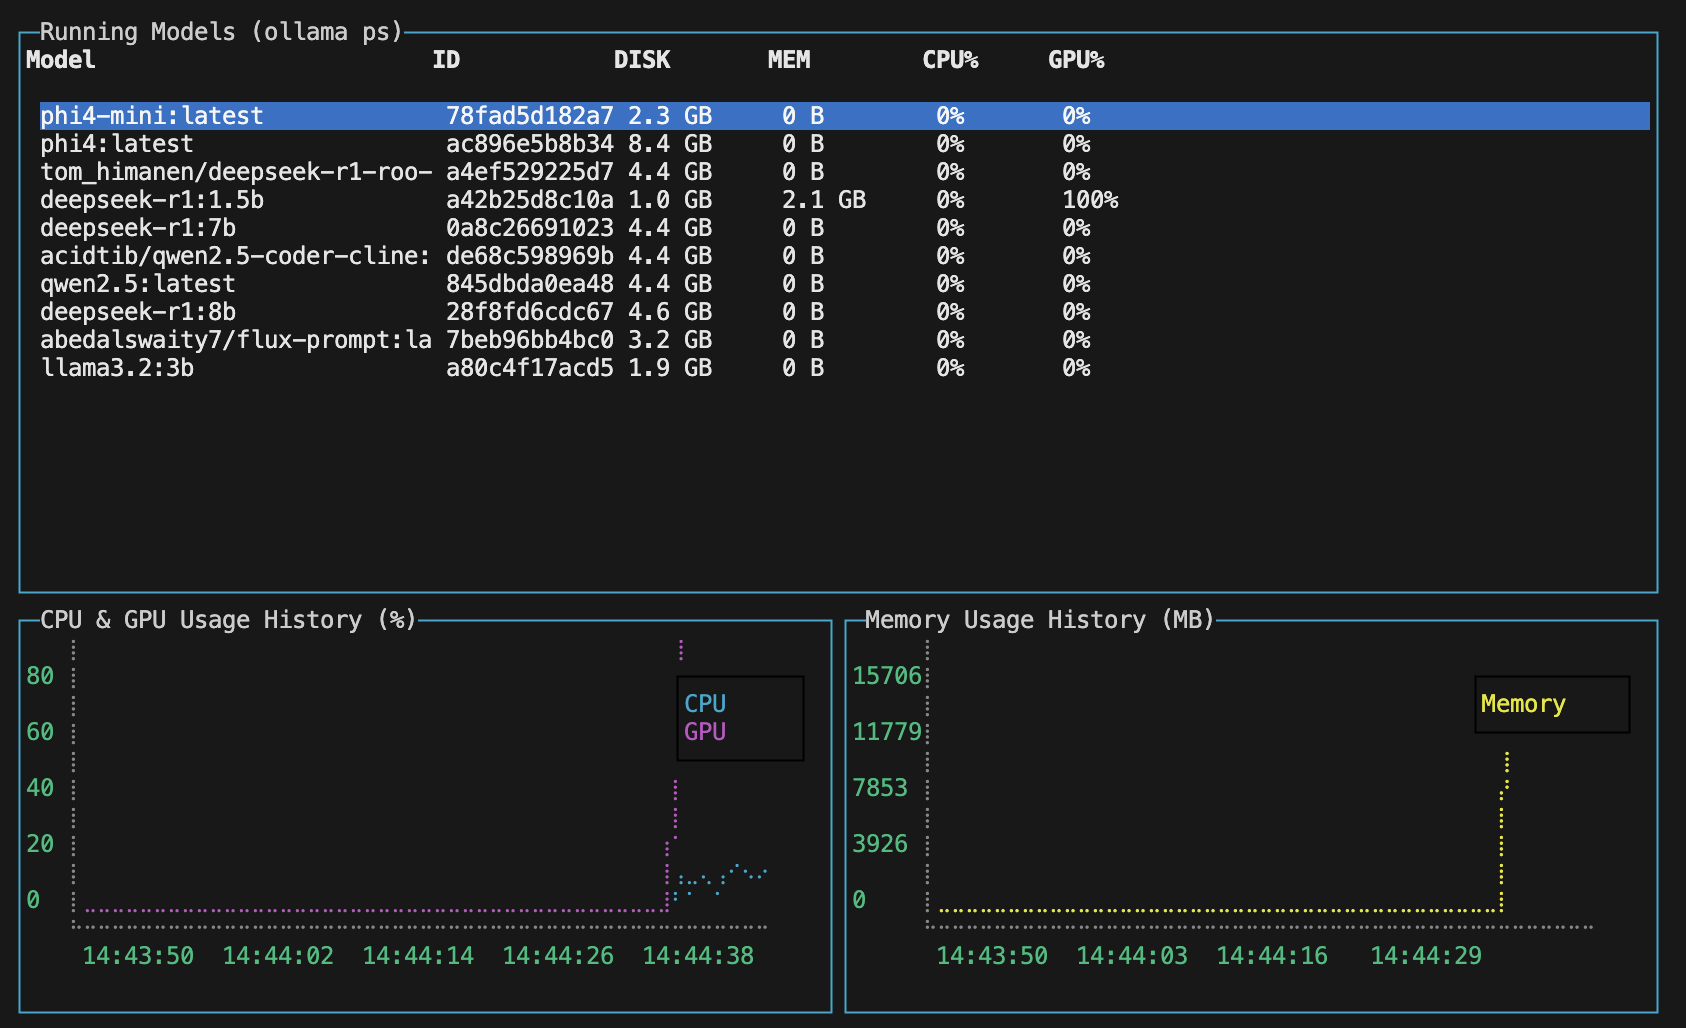
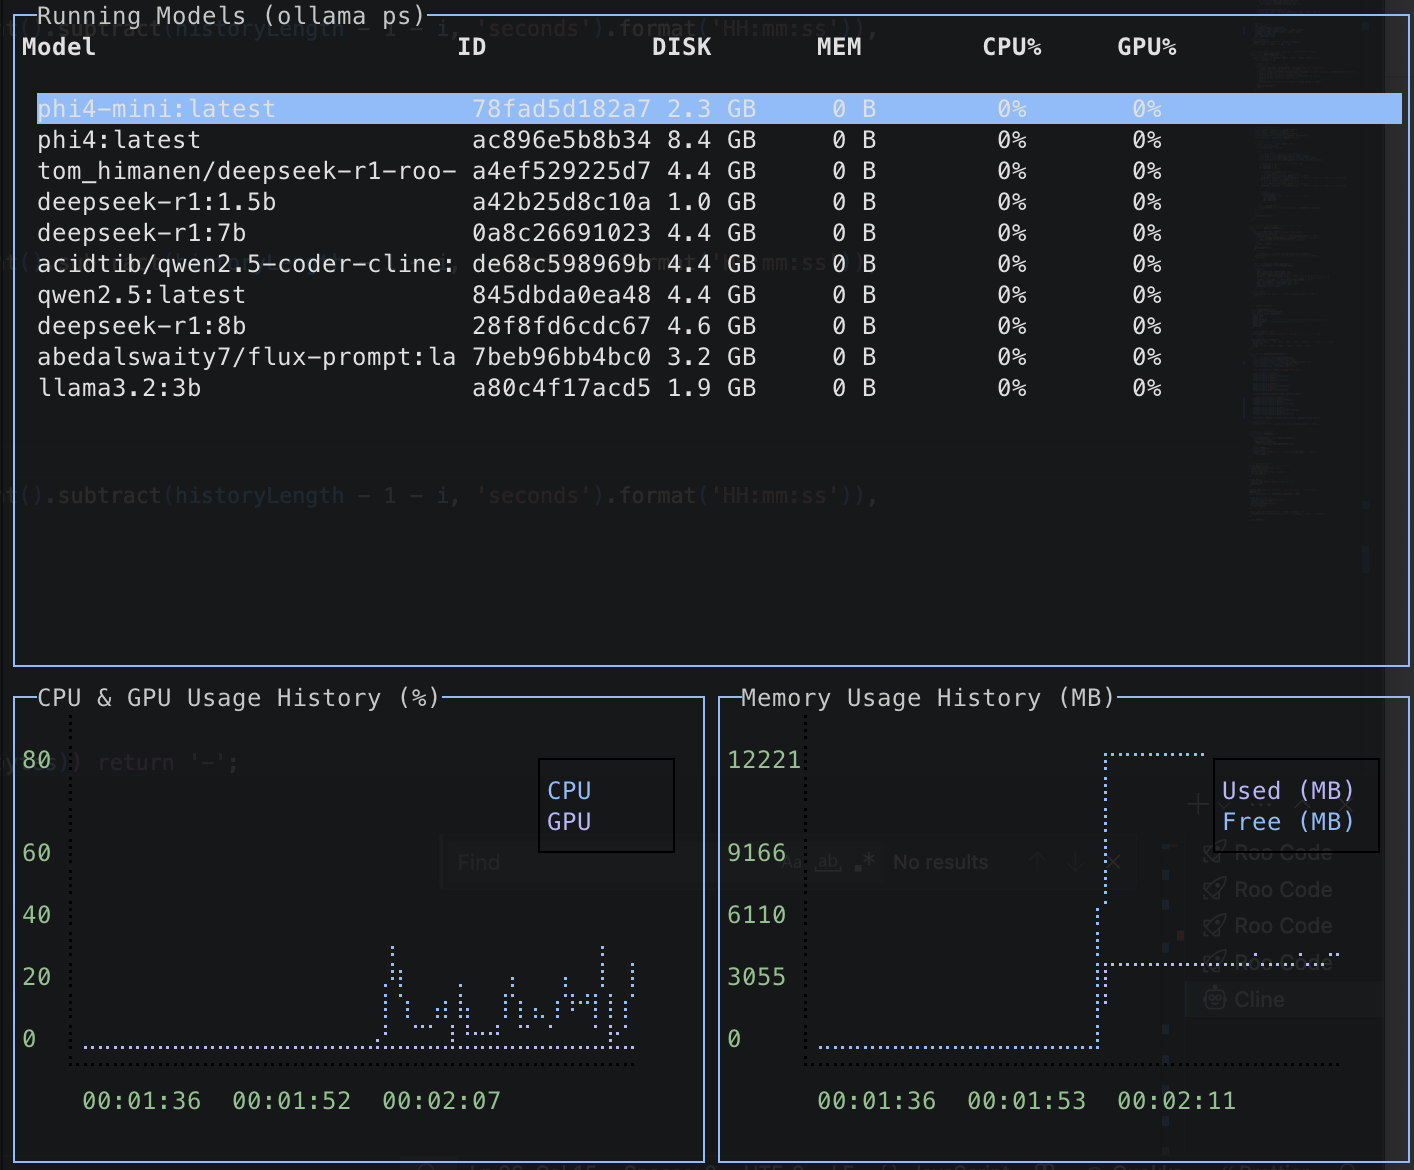
Fixed mem for OSX

diff --git a/src/index.js b/src/index.js
@@ -6,6 +6,7 @@ import moment from 'moment';
 import ollama from 'ollama';
 import os from 'os';
 import { exec } from 'child_process';
+import osX from 'osx-extra'; // Import osx-extra
 
 // Create a screen object
 const screen = blessed.screen({
@@ -84,13 +85,19 @@ const gpuHistoryData = {
   style: { line: 'magenta' }
 };
 
-const memoryHistoryData = {
-  title: 'Memory (MB)',
+const usedMemoryHistoryData = {
+  title: 'Free (MB)',
   x: Array(historyLength).fill('').map((_, i) => moment().subtract(historyLength - 1 - i, 'seconds').format('HH:mm:ss')),
   y: Array(historyLength).fill(0),
-  style: { line: 'yellow' }
+  style: { line: 'cyan' }
 };
 
+const freeMemoryHistoryData = {
+  title: 'Used (MB)',
+  x: Array(historyLength).fill('').map((_, i) => moment().subtract(historyLength - 1 - i, 'seconds').format('HH:mm:ss')),
+  y: Array(historyLength).fill(0),
+  style: { line: 'magenta' }
+};
 
 // --- HELPER FUNCTIONS ---
 
@@ -125,7 +132,8 @@ async function getSystemInfo() {
   try {
     const cpuInfo = await getCpuUsage();
     const totalMem = os.totalmem();
-    const freeMem = os.freemem();
+    // Use osx-extra for free memory on macOS, otherwise use os.freemem()
+    const freeMem = os.platform() === 'darwin' ? osX.freemem() : os.freemem();
     const usedMem = totalMem - freeMem;
     const usedMemInMB = Math.round(usedMem / (1024 * 1024));
     
@@ -155,7 +163,10 @@ async function getSystemInfo() {
 
     return {
       cpu: cpuInfo,
-      memory: usedMemInMB,
+      totalMemoryUsage: usedMemInMB,
+      totalMemory: Math.round(totalMem / (1024 * 1024)),
+      freeMemory: Math.round(freeMem / (1024 * 1024)),
+      usedMem: usedMemInMB,
       gpu: gpuUsagePercent
     };
   } catch (error) {
@@ -319,7 +330,8 @@ async function updateHistoryCharts() {
   try {
     const systemInfo = await getSystemInfo();
     const totalCpuUsage = systemInfo.cpu ?? 0;
-    const totalMemoryUsage = systemInfo.memory ?? 0;
+    const totalMemoryUsage = systemInfo.totalMemoryUsage ?? 0;
+    const freeMemory = systemInfo.freeMemory ?? 0;
     const totalGpuUsage = systemInfo.gpu ?? 0;
 
     const currentTime = moment().format('HH:mm:ss');
@@ -336,11 +348,17 @@ async function updateHistoryCharts() {
 
     cpuChart.setData([cpuHistoryData, gpuHistoryData]);
 
-    memoryHistoryData.y.shift();
-    memoryHistoryData.y.push(totalMemoryUsage);
-    memoryHistoryData.x.shift();
-    memoryHistoryData.x.push(currentTime);
-    memoryChart.setData([memoryHistoryData]);
+    freeMemoryHistoryData.y.shift();
+    freeMemoryHistoryData.y.push(freeMemory);
+    freeMemoryHistoryData.x.shift();
+    freeMemoryHistoryData.x.push(currentTime);
+
+    usedMemoryHistoryData.y.shift();
+    usedMemoryHistoryData.y.push(totalMemoryUsage);
+    usedMemoryHistoryData.x.shift();
+    usedMemoryHistoryData.x.push(currentTime);
+
+    memoryChart.setData([freeMemoryHistoryData, usedMemoryHistoryData]);
 
   } catch (error) {
     console.error(`Chart update err: ${error.message.split('\n')[0]}`);

diff --git a/README.md b/README.md
@@ -22,9 +22,6 @@ A terminal-based monitoring dashboard for Ollama, inspired by gtop. This tool pr
 ### Global Installation
 
 ```bash
-# Install from npm (once published)
-npm install -g topollama
-
 # Or install locally from the source
 git clone https://github.com/yourusername/topollama.git
 cd topollama
